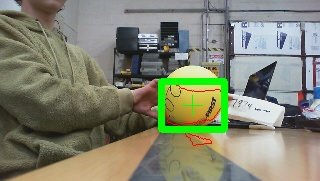
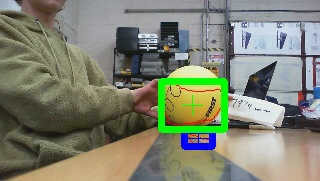
Add ball width preference

Changed region(s): [[0.5625, 0.7182, 0.6875, 0.8564]]

diff --git a/src/main/java/BallVision.java b/src/main/java/BallVision.java
@@ -16,7 +16,7 @@ public class BallVision{
 
 //Load 6 test images, process, and write 6 output images. To-Do: Replace with camera input
     public static void main(String[] args) {
-        long hm_images = 14;
+        long hm_images = 18;
 
         System.loadLibrary(Core.NATIVE_LIBRARY_NAME);
         for (int i = 1; i<=hm_images; i++){
@@ -83,6 +83,12 @@ public class BallVision{
         //For each contour found, draw bounding rectangle and marker at center if over a certain size
         double tolerance = 0.3;
         boolean using_tolerances = false;
+
+        long best_centerx = 0;
+        long best_centery = 0;
+        long largest_width = 0;
+        Rect bestBoundRect = new Rect();
+
         for(MatOfPoint contour : contours) {
             double ballArea = Imgproc.contourArea(contour);
 
@@ -100,15 +106,24 @@ public class BallVision{
 
                 //in_tolerance = boundRect.width >= boundRect.height;*/
             }
-            if(ballArea>=1000 && in_tolerance){
-                Imgproc.rectangle(resizedOutput, new Point(boundRect.x,boundRect.y), new Point(boundRect.x+boundRect.width,boundRect.y+boundRect.height), new Scalar(0,255,0),5);
+            if(ballArea>=100 && in_tolerance){
+                Imgproc.rectangle(resizedOutput, new Point(boundRect.x,boundRect.y), new Point(boundRect.x+boundRect.width,boundRect.y+boundRect.height), new Scalar(255,0,0),5);
                 long centerx = boundRect.x + boundRect.width / 2;
                 long centery = boundRect.y + boundRect.height / 2;
                 System.out.println("Target found!");
                 System.out.println("Center at (" + centerx + ", " + centery + ")");
                 System.out.println("Boundary width: " + boundRect.width);
                 System.out.println("Boundary height: " + boundRect.height);
-                Imgproc.drawMarker(resizedOutput, new Point(centerx,centery), new Scalar(0,255,0));
+                Imgproc.drawMarker(resizedOutput, new Point(centerx,centery), new Scalar(255,0,0));
+
+                // Determine if this is a better target
+                long width = boundRect.width;
+                if (width >= largest_width) {
+                    best_centerx = centerx;
+                    best_centery = centery;
+                    largest_width = width;
+                    bestBoundRect = boundRect;
+                }
 
                 /*
                 double focalLen = 55.1; // estimated focal length of Edward's camera
@@ -122,6 +137,25 @@ public class BallVision{
             }
 
         }
+        Imgproc.rectangle(resizedOutput, new Point(bestBoundRect.x,bestBoundRect.y), new Point(bestBoundRect.x+bestBoundRect.width,bestBoundRect.y+bestBoundRect.height), new Scalar(0,255,0),5);
+        Imgproc.drawMarker(resizedOutput, new Point(best_centerx,best_centery), new Scalar(0,255,0));
+
+        // Calculate hFocalLen
+        double aspectH = resizeWidth;
+        double aspectV = resizeHeight;
+        double aspectDiag = Math.hypot(aspectH, aspectV);
+        double diagFieldView = Math.toRadians(68.5);
+
+        double fieldViewH = Math.atan(Math.tan(diagFieldView / 2.0) * (aspectH / aspectDiag)) * 2.0;
+        double fieldViewV = Math.atan(Math.tan(diagFieldView / 2.0) * (aspectV / aspectDiag)) * 2.0;
+
+        double hFocalLen = resizeWidth / (2.0 * Math.tan((fieldViewH / 2.0)));
+        //double vFocalLen = resizedOutput.height / (2.0 * Math.tan((fieldViewV / 2.0)));
+
+        // Calculate yaw
+        double yaw = calcAngle(best_centerx, (long)resizeWidth/2, hFocalLen);
+        System.out.println(yaw);
+
         return resizedOutput;
     }
 
